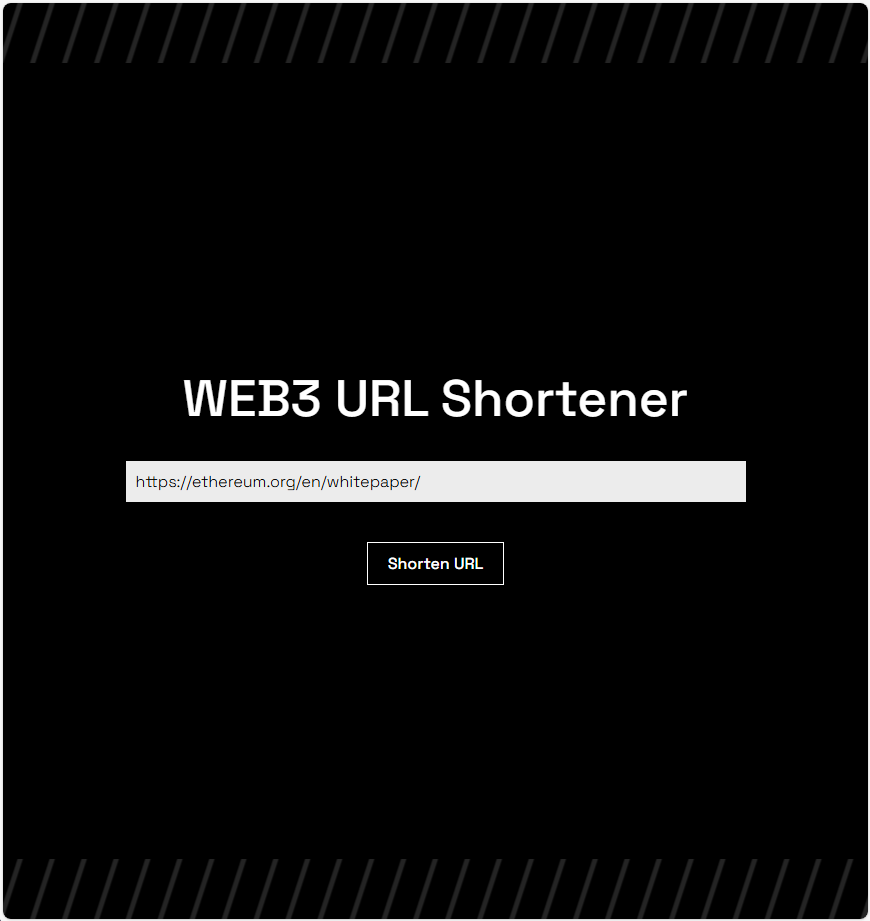
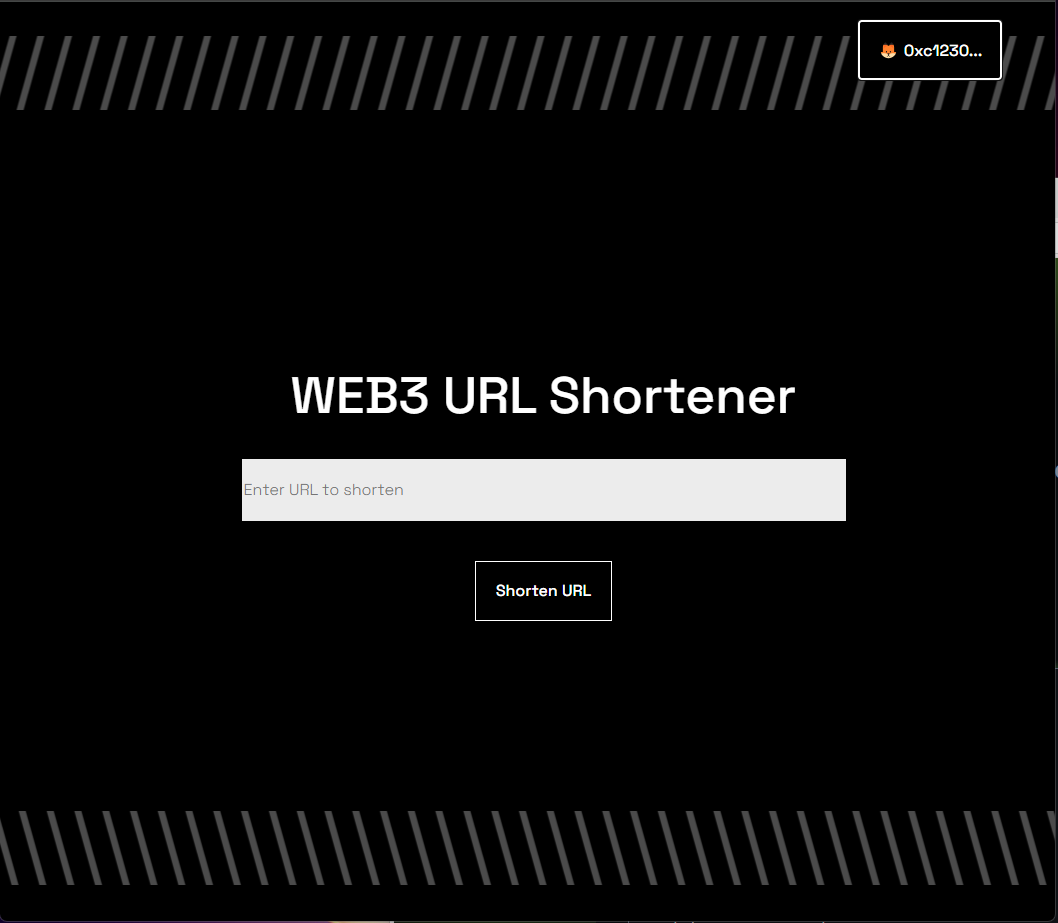
Readme Update with new look

Changed region(s): [[0.0, 0.0, 1.0, 1.0], [0.1241, 0.4864, 0.869, 0.6688], [0.2172, 0.3952, 0.8069, 0.456]]

diff --git a/vite-project/src/components/MetaMaskLogin.tsx b/vite-project/src/components/MetaMaskLogin.tsx
@@ -25,7 +25,7 @@ const MetaMaskLogin: React.FC = () => {
     return (
         <div>
             <button onClick={connectWallet} className="login-button">
-                {walletAddress ? `Connected: ${walletAddress}` : 'Connect Wallet'}
+                {walletAddress ? `🦊 ${walletAddress.slice(0, 7)}...` : 'Connect Wallet'}
             </button>
             <InstallMetaMaskModal show={showModal} onClose={() => setShowModal(false)} />
         </div>
